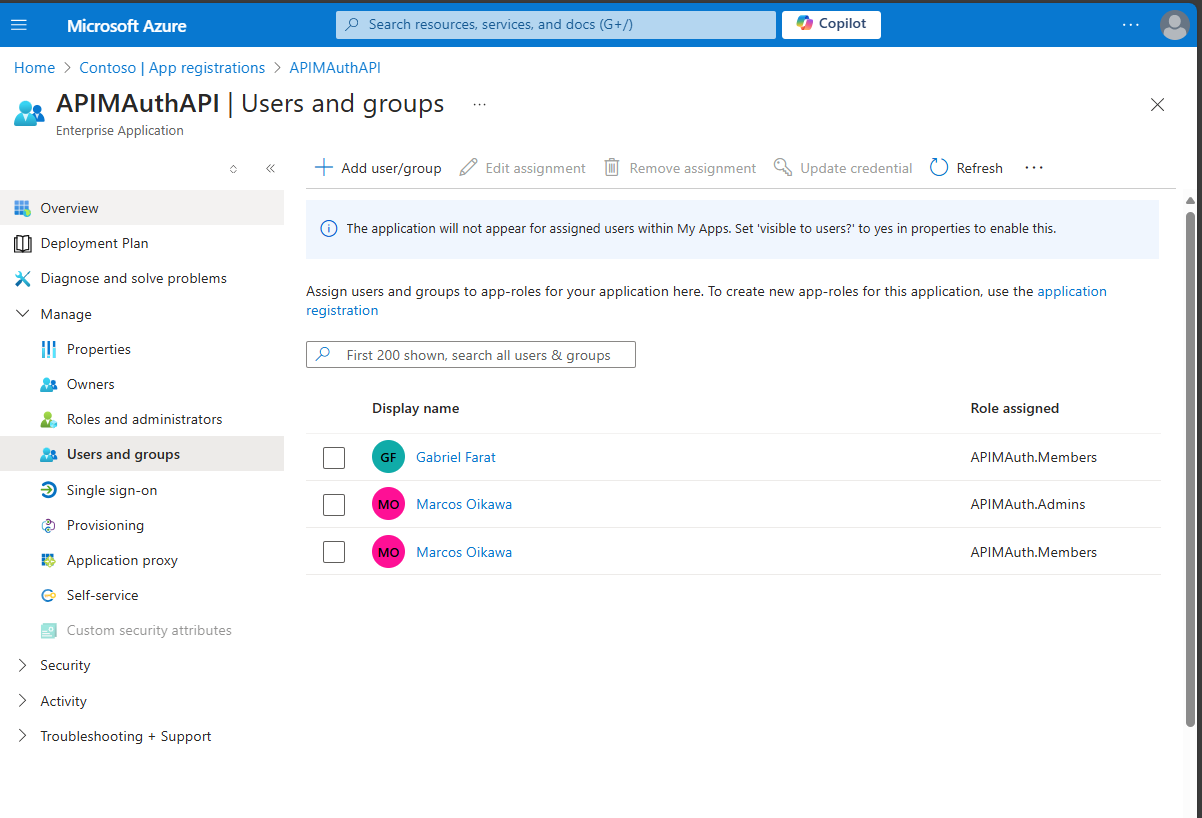
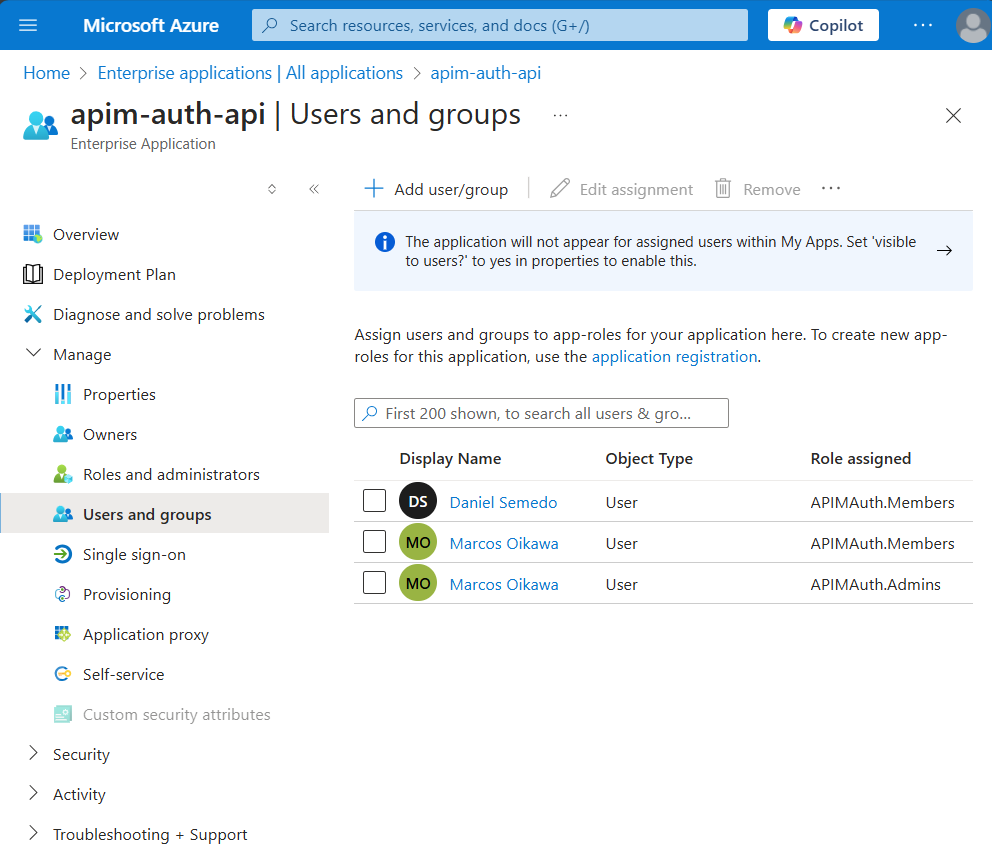
app roles

diff --git a/README.md b/README.md
@@ -179,7 +179,7 @@ You must have at least two users in your Microsoft Entra ID Tenant, to give one 
 1. In the Enterprise Application Pane, in Manage section, go to **Users and groups**, **+ Add user/group**, select a user and select just APIM.Members App Role. Click on Select, and then Assign.
 1. Do the seme for another user, including this time, the APIM.Admins and APIM.Members App Role. The configuration will be something similar to this:
 ![Enterprise Pane](./media/approles2.png)
-In this example, Marcos will have the "Admin" role, and Gabriel will have "Member" role.
+In this example, Marcos will have the "Admin" role, and Daniel will have "Member" role.
 
 ## Configure APIM According App Roles
 In this sample, we will consider that Members can list the sessions, but not list the Speakers. To do so, we will configure 2 operations policies, one for **GetSessions** operation, and another one for **GetSpeakers** operation.
